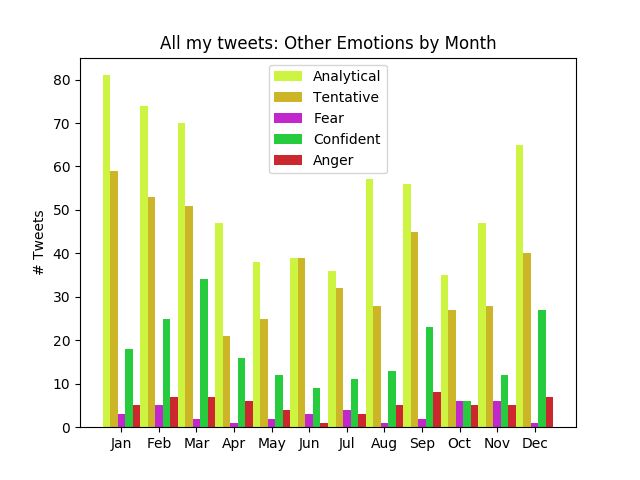
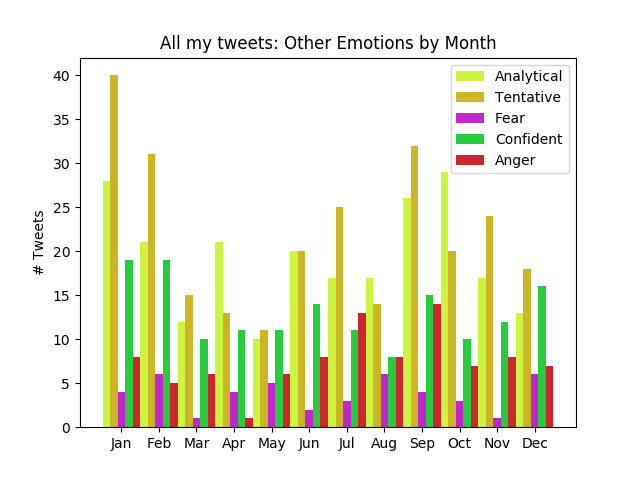
added plots for some random twitter users to see how my program worked. had to edit some files params.

diff --git a/src/tone_analyzer.py b/src/tone_analyzer.py
@@ -168,7 +168,7 @@ def main():
 
     # Uncomment to read in a tweets.json file with all of your tweets and seperate them into
     # files with just the text and then analyze each tweet.
-    ta.incremental_send_all_tweets_to_text_json(ta.path_name("/../data/tweets.json"),
+    ta.incremental_send_all_tweets_to_text_json(ta.path_name("/../data/graysons_tweets.json"),
                                                 ta.path_name("/../data/tweets_text/"))
     ta.analyze_all_tweets_text_folder(analyzer, ta.path_name("/../data/tweets_text/"))
     ta.create_single_file_tone_analysis(ta.path_name("/../data/analysis/"),
@@ -176,8 +176,8 @@ def main():
     ta.temp_file_cleanup(ta.path_name("/../data/analysis/"),
                          ta.path_name("/../data/tweets_text/"))
     ta.attach_analysis_to_tweet(ta.path_name("/../data/all_analysis.json"),
-                                ta.path_name("/../data/tweets.json"),
-                                ta.path_name("/../data/merged_analysis.json"))
+                                ta.path_name("/../data/graysons_tweets.json"),
+                                ta.path_name("/../data/gray_merged_analysis.json"))
 
     '''
     resp = ta.analyze_json_file(analyzer, ta.path_name("/../data/tweets_text/tweet_text_0000.json"))

diff --git a/src/tweets_data_analysis.py b/src/tweets_data_analysis.py
@@ -107,14 +107,14 @@ class TweetsDataAnalysis:
 def main():
     tda = TweetsDataAnalysis()
 
-    data = tda.get_flattened_data(os.path.dirname(__file__) + "/../data/merged_analysis.json", 'tones', ['text', 'created_at', 'favorite_count', 'retweet_count'])
+    data = tda.get_flattened_data(os.path.dirname(__file__) + "/../data/gray_merged_analysis.json", 'tones', ['text', 'created_at', 'favorite_count', 'retweet_count'])
 
     tda.convert_to_datetime(data)
-    # tda.max_favorites_of_tweets(data)
-    # tda.max_retweets_of_tweets(data)
-    # tda.graph_tweet_freq_per_month(data, 'my_freq_per_month.png')
-    # tda.graph_joy_vs_sad_per_month(data, 'my_tweets_joy_vs_sad_per_month.png')
-    # tda.graph_other_emotions_per_month(data, 'my_tweets_other_emotions_per_month.png')
+    tda.max_favorites_of_tweets(data)
+    tda.max_retweets_of_tweets(data)
+    tda.graph_tweet_freq_per_month(data, 'my_freq_per_month.png')
+    tda.graph_joy_vs_sad_per_month(data, 'my_tweets_joy_vs_sad_per_month.png')
+    #tda.graph_other_emotions_per_month(data, 'my_tweets_other_emotions_per_month.png')
     tda.graph_pie_chart(data, 'my_tweets_pie_chart.png')
 
 

diff --git a/tests/test_tone_analyzer.py b/tests/test_tone_analyzer.py
@@ -48,7 +48,7 @@ def test_dump_json_to_file():
     os.remove(output_file)
     assert new_data is not None
 
-def test_only_write_sentence_to_file():
+def test_write_only_sentence_to_file():
     tone = ta.create_connection(os.environ['TONE_U'], os.environ['TONE_P'], now.strftime("%Y-%m-%d %H:%M"))
     resp = ta.analyze_json_file(analyzer, os.path.dirname(__file__) + "/good_text.json")
     outfile = os.path.dirname(__file__) + "/temp.json"

diff --git a/src/tweepy_grabber.py b/src/tweepy_grabber.py
@@ -36,7 +36,7 @@ class TweepyGrabber:
 def main():
     grabber = TweepyGrabber()
     api = grabber.api_connect(os.environ['TWEET_PUB'], os.environ['TWEET_PRI'])
-    grabber.get_users_timeline(api, "patrickbeekman", "patricks_tweets.json")
+    grabber.get_users_timeline(api, "_sydalee", "graysons_tweets.json")
 
 if __name__ == "__main__":
     main()
